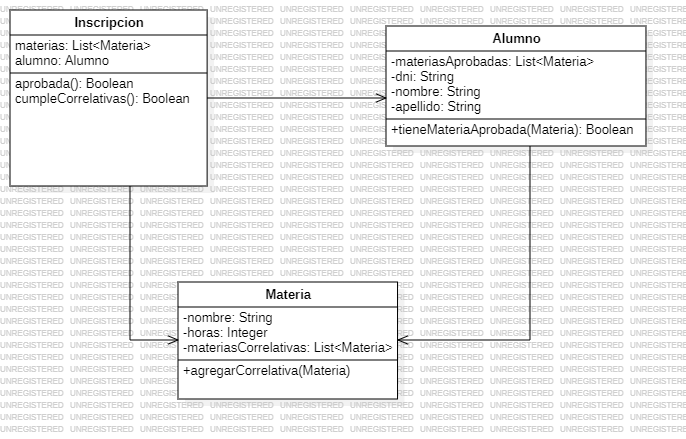
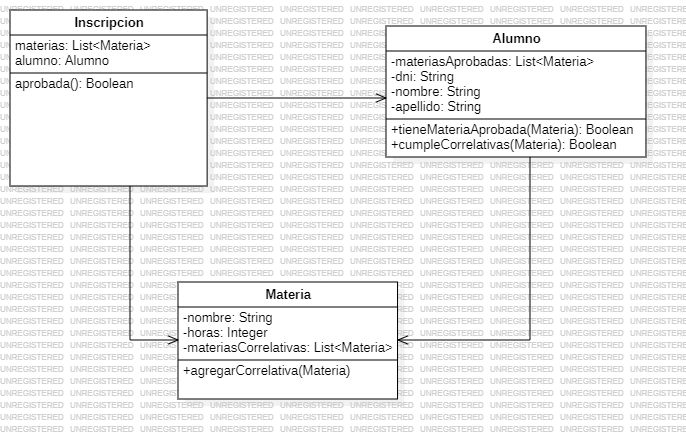
Entrega Final

Changed region(s): [[0.551, 0.2961, 0.949, 0.385], [0.0306, 0.2073, 0.2755, 0.2369]]

diff --git a/Validador de Correlativas/src/main/java/org/example/Inscripcion.java b/Validador de Correlativas/src/main/java/org/example/Inscripcion.java
@@ -15,11 +15,6 @@ public class Inscripcion {
     private List <Materia> materiasAinscribir;
 
 
-    public Inscripcion(Alumno alumno, Materia materia) {
-        this.alumno = alumno;
-        this.materiasAinscribir = new ArrayList<>();
-    }
-
     public boolean cumpleTodasLasCorrelativas () {
         /*return this.materiasAinscribir.stream().allMatch(
                 materia -> this.alumno.cumpleCorrelativas(materia)

diff --git a/Validador de Correlativas/src/main/java/org/example/Materia.java b/Validador de Correlativas/src/main/java/org/example/Materia.java
@@ -15,19 +15,12 @@ import java.util.List;
 public class Materia {
     private String nombre;
     private Integer horas;
-    //private MateriasCorrelativas materiasCorrelativas;
     private List <Materia> materiasCorrelativas;
-
-
-
 
 
     public void agregarCorrelativa(Materia ... materias) {
         Collections.addAll(this.materiasCorrelativas, materias);
 
     }
-
-
-
 
 }

diff --git a/Validador de Correlativas/src/test/java/org/example/IncripcionTest.java b/Validador de Correlativas/src/test/java/org/example/IncripcionTest.java
@@ -19,8 +19,6 @@ class IncripcionTest {
         Alumno alumno = new Alumno( "Juan", "Pérez", "12345678", new ArrayList<>());
 
 
-
-
         // Agrego al alumno sus materias aprobadas
         alumno.agregarMateriaAprobada(matematica);
         alumno.agregarMateriaAprobada(fisica);
